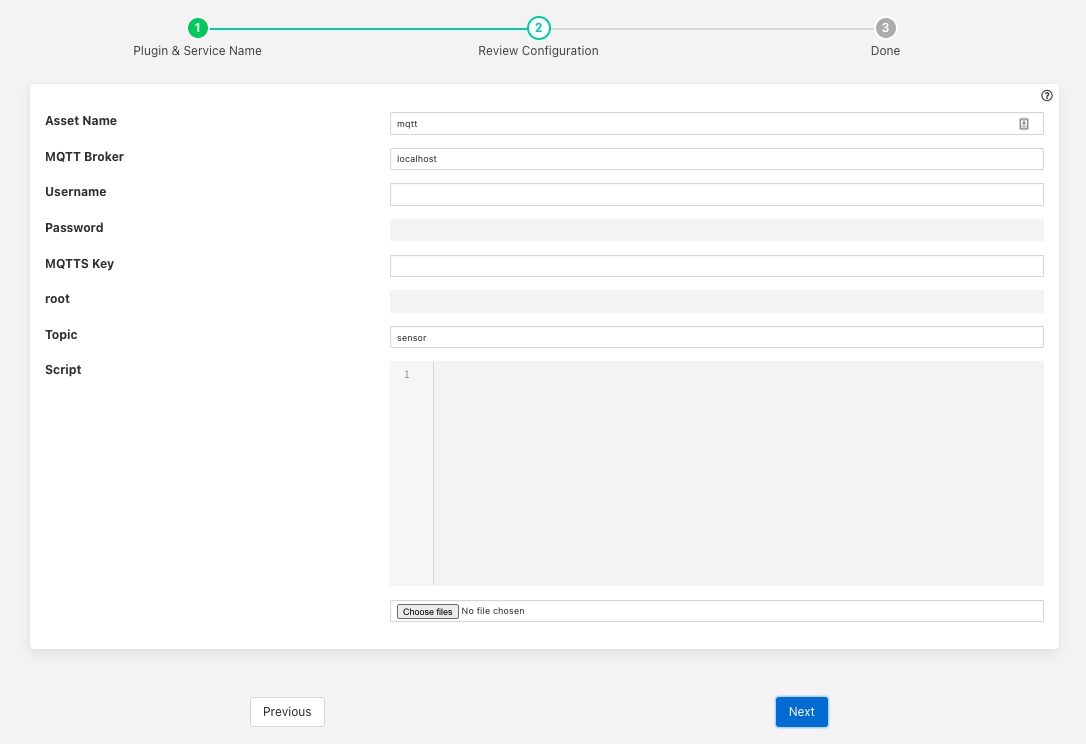
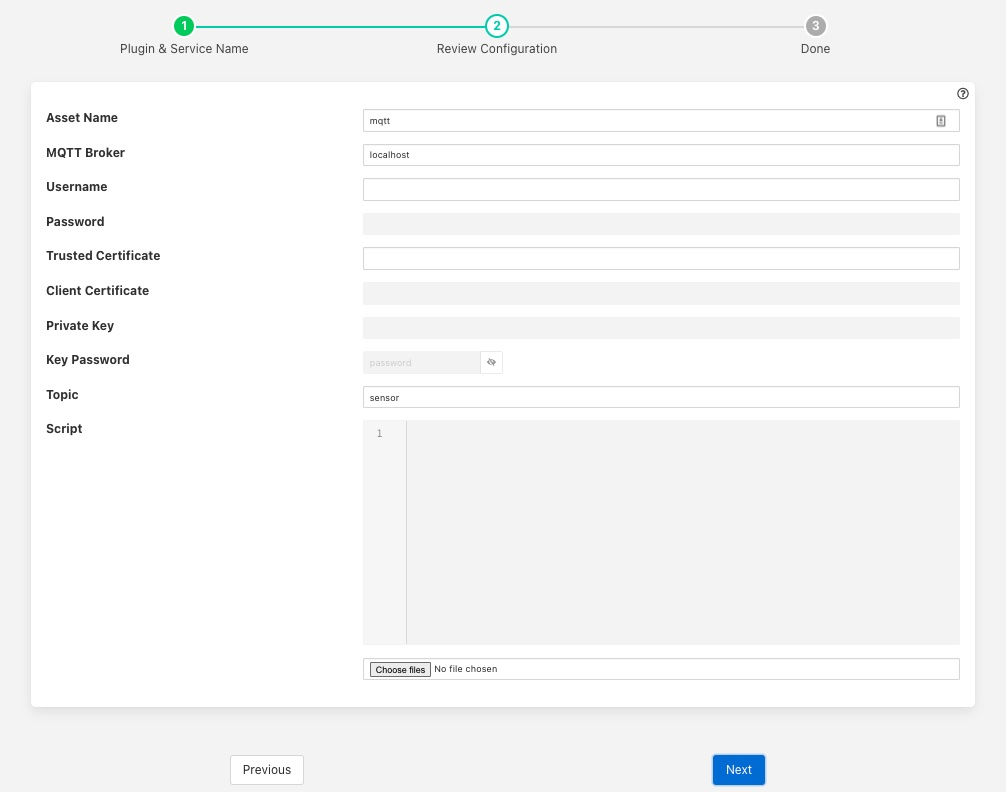
Updates following comments

diff --git a/scripted.cpp b/scripted.cpp
@@ -120,12 +120,16 @@ bool MQTTScripted::start()
 	}
 
 	// Do we need MQTTS support
-	if (m_key.length())
+	if (m_serverCert.length())
 	{
 		MQTTClient_SSLOptions sslopts = MQTTClient_SSLOptions_initializer;
 
-		sslopts.trustStore = rootPath().c_str();
-		sslopts.privateKey = privateKeyPath().c_str();
+		sslopts.trustStore = serverCertPath().c_str();
+		sslopts.keyStore = clientCertPath().c_str();
+		if (m_key.length())
+			sslopts.privateKey = privateKeyPath().c_str();
+		if (m_keyPass.length())
+			sslopts.privateKeyPassword = m_keyPass.c_str();
 
 		conn_opts.ssl = &sslopts;
 	}
@@ -215,12 +219,26 @@ void MQTTScripted::reconfigure(const ConfigCategory& category)
 	}
 	m_key = key;
 
-	string root = category.getValue("root");
-	if (root.compare(m_root))
+	string clientCert = category.getValue("clientCert");
+	if (clientCert.compare(m_clientCert))
 	{
 		resubscribe = true;
 	}
-	m_root = root;
+	m_clientCert = clientCert;
+
+	string keyPass = category.getValue("keyPass");
+	if (keyPass.compare(m_keyPass))
+	{
+		resubscribe = true;
+	}
+	m_keyPass = keyPass;
+
+	string serverCert = category.getValue("serverCert");
+	if (serverCert.compare(m_serverCert))
+	{
+		resubscribe = true;
+	}
+	m_serverCert = serverCert;
 
 	string username = category.getValue("username");
 	if (username.compare(m_username))
@@ -402,19 +420,19 @@ Document doc;
  */
 string MQTTScripted::privateKeyPath()
 {
-	if (getenv("FLEDGE_DATA"))
+	if (getenv("FOGLAMP_DATA"))
 	{
-		m_keyPath = getenv("FLEDGE_DATA");
+		m_keyPath = getenv("FOGLAMP_DATA");
 		m_keyPath += "/etc/certs/";
 	}
-	else if (getenv("FLEDGE_ROOT"))
+	else if (getenv("FOGLAMP_ROOT"))
 	{
-		m_keyPath = getenv("FLEDGE_ROOT");
+		m_keyPath = getenv("FOGLAMP_ROOT");
 		m_keyPath += "/data/etc/certs/";
 	}
 	else
 	{
-		m_keyPath = "/usr/local/fledge/data/etc/certs/"; 
+		m_keyPath = "/usr/local/foglamp/data/etc/certs/"; 
 	}
 	m_keyPath += m_key;
 	m_keyPath += ".pem";
@@ -423,27 +441,53 @@ string MQTTScripted::privateKeyPath()
 }
 
 /**
- * Return the path to the root certificate
+ * Return the path to the server certificate
  */
-string MQTTScripted::rootPath()
+string MQTTScripted::clientCertPath()
 {
-	if (getenv("FLEDGE_DATA"))
+	if (getenv("FOGLAMP_DATA"))
 	{
-		m_rootPath = getenv("FLEDGE_DATA");
-		m_rootPath += "/etc/certs/";
+		m_clientCertPath = getenv("FOGLAMP_DATA");
+		m_clientCertPath += "/etc/certs/";
 	}
-	else if (getenv("FLEDGE_ROOT"))
+	else if (getenv("FOGLAMP_ROOT"))
 	{
-		m_rootPath = getenv("FLEDGE_ROOT");
-		m_rootPath += "/data/etc/certs/";
+		m_clientCertPath = getenv("FOGLAMP_ROOT");
+		m_clientCertPath += "/data/etc/certs/";
 	}
 	else
 	{
-		m_rootPath = "/usr/local/fledge/data/etc/certs/"; 
+		m_clientCertPath = "/usr/local/foglamp/data/etc/certs/"; 
 	}
-	m_rootPath += "pem/";
-	m_rootPath += m_root;
-	m_rootPath += ".pem";
+	m_clientCertPath += "pem/";
+	m_clientCertPath += m_clientCert;
+	m_clientCertPath += ".pem";
 
-	return m_rootPath;
+	return m_clientCertPath;
+}
+
+/**
+ * Return the path to the server certificate
+ */
+string MQTTScripted::serverCertPath()
+{
+	if (getenv("FOGLAMP_DATA"))
+	{
+		m_serverCertPath = getenv("FOGLAMP_DATA");
+		m_serverCertPath += "/etc/certs/";
+	}
+	else if (getenv("FOGLAMP_ROOT"))
+	{
+		m_serverCertPath = getenv("FOGLAMP_ROOT");
+		m_serverCertPath += "/data/etc/certs/";
+	}
+	else
+	{
+		m_serverCertPath = "/usr/local/foglamp/data/etc/certs/"; 
+	}
+	m_serverCertPath += "pem/";
+	m_serverCertPath += m_serverCert;
+	m_serverCertPath += ".pem";
+
+	return m_serverCertPath;
 }

diff --git a/plugin.cpp b/plugin.cpp
@@ -66,26 +66,42 @@ const char *default_config = QUOTE({
 	       	"order" : "4",
 		"validity" : "username != \"\""
 		},
-	"key" : {
-       		"description" : "The key to use to connect when using MQTTS",
+	"serverCert" : {
+       		"description" : "The name of the server certificate to be trusted. This should correspond to a PEM file stored in the FogLAMP certificate store",
 		"type" : "string",
 	       	"default" : "",
-		"displayName" : "MQTTS Key",
+		"displayName" : "Trusted Certificate",
 	       	"order" : "5"
 		},
-	"root" : {
-       		"description" : "The name of the CA Certificate of the MQTT broker",
+	"clientCert": {
+       		"description" : "The certificate that will be used by the plugin to connect to the broker. This should correspond to a PEM file stored in the FogLAMP certificate store",
 		"type" : "string",
 	       	"default" : "",
-		"displayName" : "Root Certificate",
+		"displayName" : "Client Certificate",
 	       	"order" : "6",
+		"validity" : "serverCert != \"\""
+		},
+	"key" : {
+       		"description" : "The private key used by the client to create the client certificate. This may be left blank if it is included in the PEM file of the client certificate.",
+		"type" : "string",
+	       	"default" : "",
+		"displayName" : "Private Key",
+	       	"order" : "7",
+		"validity" : "clientCert != \"\""
+		},
+	"keyPass" : {
+       		"description" : "The password used to encrypte the private key. This may be left blank if the private key is not encrypted.",
+		"type" : "password",
+	       	"default" : "",
+		"displayName" : "Key Password",
+	       	"order" : "8",
 		"validity" : "key != \"\""
 		},
 	"topic" : {
 		"description" : "The MQTT topic to which we subscribe to receive sensor messages",
 		"type" : "string",
 		"default" : "sensor",
-		"order" : "7",
+		"order" : "9",
 		"displayName": "Topic",
 		"mandatory": "true"
 		},
@@ -93,7 +109,7 @@ const char *default_config = QUOTE({
 		"description" : "MQTT message translation Python script",
 		"type" : "script",
 		"default" : "",
-		"order" : "8",
+		"order" : "10",
 		"displayName": "Script"
 		} 
 	});

diff --git a/include/scripted.h b/include/scripted.h
@@ -51,7 +51,8 @@ class MQTTScripted {
 	private:
 		void			(*m_ingest)(void *, Reading);
 		std::string		privateKeyPath();
-		std::string		rootPath();
+		std::string		serverCertPath();
+		std::string		clientCertPath();
 	private:
 		std::string		m_asset;
 		std::string		m_broker;
@@ -68,9 +69,12 @@ class MQTTScripted {
 		std::string		m_name;
 		bool			m_restart;
 		std::string		m_key;
-		std::string		m_root;
+		std::string		m_serverCert;
+		std::string		m_clientCert;
 		std::string		m_keyPath;
-		std::string		m_rootPath;
+		std::string		m_keyPass;
+		std::string		m_serverCertPath;
+		std::string		m_clientCertPath;
 		std::string		m_username;
 		std::string		m_password;
 };

diff --git a/docs/index.rst b/docs/index.rst
@@ -73,9 +73,13 @@ When adding a south service with this plugin the same flow is used as with any o
 
   - **Password**: The password to use if username is to be used.
 
-  - **MQTTS Key**: The private key to use to for MQTTS connections. THis can be left blank if MQTTS is not required.
+  - **Trusted Certificate**: The trusted certificate of the MQTT broker. If MQTTS communication is not required then this can be left blank.
 
-  - **Root Certificate**: The root CA Certificate of the MQTT broker.
+  - **Client Certificate**: The certificate that will be used by the MQTT plugin.
+
+  - **MQTTS Key**: The private key of the MQTT plugin. If the key is included in the PEM file of the client certificate this may be left blank.
+
+  - **Key Password**: The password used to encrypted the private key. This may be left blank if the private key was not encrypt.
 
   - **Topic**: The MQTT topic to which to subscribe. The topic may include the usual MQTT wildcards; + for a single level wildcard and # for a multi-level wildcard
 
